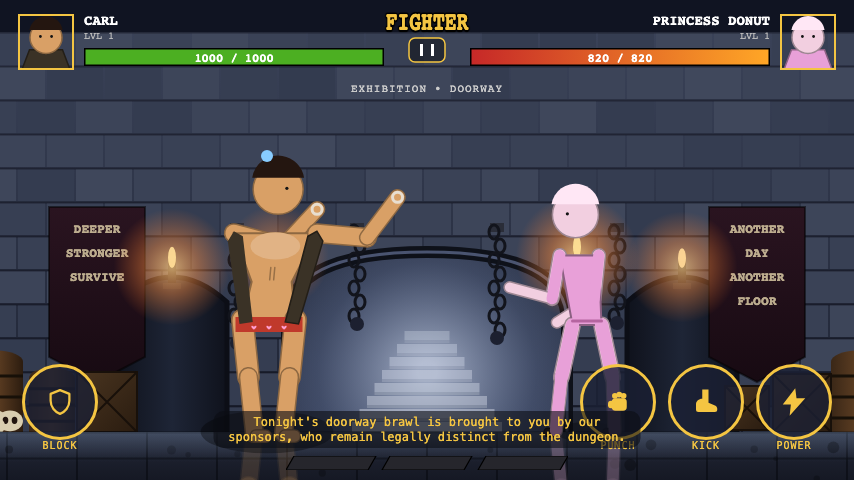
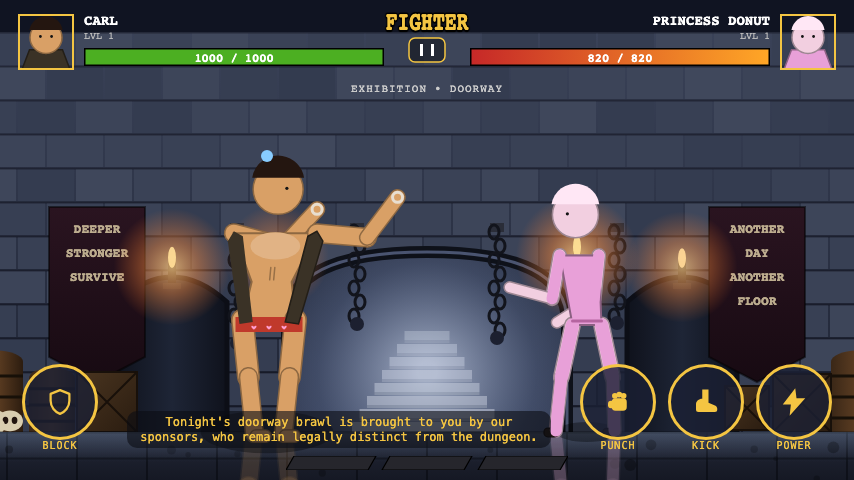
fix: toast sits between BLOCK and PUNCH
Round 2 re-review: the toast, centered at 62% of the canvas width,
still ran its right edge over the PUNCH button's label in every
non-cinematic shot, making it unreadable.

G.positionToast now centers the toast in the horizontal gap between
the BLOCK button's right edge and the PUNCH button's left edge instead
of the canvas center, capped at 88% of that gap's width. The two edges
(BLOCK_RIGHT, PUNCH_LEFT) are computed from the same canvas-local
numbers 00_head.html's CSS positions the buttons with (#btnBlock
left:22/width:76, #btnPunch right:198/width:76), not their DOM rects —
#btns (and everything under it) collapses to a zero
getBoundingClientRect() while hidden pre-fight (TITLE/RESULT), and
positionToast runs then too (from G.fit at init/resize). Bottom
placement (8px above the power chevrons) and the 13px->12px two-line
cap (G.fitToastText) are unchanged from round 2.

New test 'toast never overlaps the BLOCK/PUNCH button labels': drives
a guaranteed-to-wrap 120-char line through the real Audio.say path,
then checks the toast's actual laid-out rect (in canvas-local units,
via the same canvas.getBoundingClientRect() scale G.positionToast
itself uses) against BLOCK/PUNCH — extended 20px down from each
button's own rect to cover its ::after data-label, which has no
directly queryable geometry.

Presentation-only — no Fight/Fighter/AI change, so the soak matrix is
unchanged from round 2. Regenerated all 10 docs/shots/p2-*.png; every
[…]

Changed region(s): [[0.1522, 0.8438, 0.7611, 0.9375]]

diff --git a/index.html b/index.html
@@ -1173,13 +1173,20 @@ const G={state:'TITLE',fight:null,encounter:null,acc:0,last:0,sim:false,debug:fa
   // top was landing squarely across the now-much-taller fighters' heads in nearly every shot.
   // TOAST_BOTTOM_GAP is canvas-local (854x480) px from the bottom of the canvas up to the toast's
   // bottom edge: the chevron power bar sits at canvas y=H-24, so H-(H-24)+8 = 32 clears it by 8px.
-  // Width is capped at 62% of the displayed canvas width (narrower than round 1's 70%, since there's
-  // less horizontal room to work with down here between the on-screen buttons).
-  TOAST_BOTTOM_GAP:32,
-  positionToast(){const r=canvas.getBoundingClientRect(),el=document.getElementById('toast');
-    el.style.left=(r.left+r.width/2)+'px';
+  // Fix round 3: round 2's 62%-of-canvas width still ran the pill's right edge over the PUNCH
+  // button's label. BLOCK_RIGHT/PUNCH_LEFT are canvas-local x's for the BLOCK button's right edge
+  // and the PUNCH button's left edge, computed from the same numbers 00_head.html's CSS positions
+  // them with (#btnBlock left:22/width:76, #btnPunch right:198/width:76) rather than read off their
+  // DOM rects — #btns (and everything under it) collapses to a zero getBoundingClientRect() while
+  // hidden pre-fight (TITLE/RESULT), and positionToast runs then too (from G.fit at init/resize).
+  // The toast is centered in that gap, capped at 88% of its width, so it can never reach either
+  // button's label regardless of content.
+  TOAST_BOTTOM_GAP:32,BLOCK_RIGHT:22+76,PUNCH_LEFT:W-(198+76),
+  positionToast(){const r=canvas.getBoundingClientRect(),el=document.getElementById('toast'),sx=r.width/W;
+    const gapL=r.left+this.BLOCK_RIGHT*sx,gapR=r.left+this.PUNCH_LEFT*sx;
+    el.style.left=((gapL+gapR)/2)+'px';
     el.style.bottom=(innerHeight-r.bottom+this.TOAST_BOTTOM_GAP/H*r.height)+'px';
-    el.style.maxWidth=Math.round(r.width*.62)+'px'},
+    el.style.maxWidth=Math.round((gapR-gapL)*.88)+'px'},
   // Caps the toast at 2 lines by dropping from 13px to 12px if the current text would wrap to 3+ at
   // 13px (measuring via the laid-out scrollHeight against the computed line-height, so it accounts
   // for the actual maxWidth positionToast() set, not an estimate). Called after every text change
@@ -1678,5 +1685,26 @@ Test.add('FX ages once per sim tick in sim mode, deterministically (not off wall
   const a=runOnce(),b=runOnce();
   eq(a,b,'identical script/seed -> identical FX state after the same tick count');
   G.fight=null;G.state='TITLE';G.sim=false});
+Test.add('toast never overlaps the BLOCK/PUNCH button labels',()=>{
+  // Fix round 3: round 2's centered-at-62%-of-canvas-width toast still ran its right edge over the
+  // PUNCH label. Drives a worst-case (long, guaranteed-to-wrap) line through the real Audio.say ->
+  // G.fitToastText path and checks the actual laid-out DOM rects, in canvas-local units (via the
+  // same canvas.getBoundingClientRect() scale G.positionToast itself uses), against BLOCK/PUNCH.
+  G.startFight();
+  G.say('x'.repeat(120));
+  const cr=canvas.getBoundingClientRect(),sx=W/cr.width,sy=H/cr.height;
+  const toCanvas=r=>({x0:(r.left-cr.left)*sx,x1:(r.right-cr.left)*sx,y0:(r.top-cr.top)*sy,y1:(r.bottom-cr.top)*sy});
+  const intersects=(a,b)=>a.x0<b.x1&&a.x1>b.x0&&a.y0<b.y1&&a.y1>b.y0;
+  // getBoundingClientRect() only covers the button circle itself, not its ::after data-label (a
+  // generated pseudo-element, which has no standard geometry query) — the actual reported bug is the
+  // label, which sits directly below the circle (top:100%, margin-top:4px, 10px text), so extend the
+  // circle's rect down by 20 canvas-local px to cover it too.
+  const withLabel=r=>({x0:r.x0,x1:r.x1,y0:r.y0,y1:r.y1+20});
+  const t=toCanvas(document.getElementById('toast').getBoundingClientRect());
+  const block=withLabel(toCanvas(document.getElementById('btnBlock').getBoundingClientRect()));
+  const punch=withLabel(toCanvas(document.getElementById('btnPunch').getBoundingClientRect()));
+  ok(!intersects(t,block),'toast rect '+JSON.stringify(t)+' must not intersect BLOCK+label '+JSON.stringify(block));
+  ok(!intersects(t,punch),'toast rect '+JSON.stringify(t)+' must not intersect PUNCH+label '+JSON.stringify(punch));
+  G.toTitle()});
 
 </script></body></html>

diff --git a/src/80_game.js b/src/80_game.js
@@ -9,13 +9,20 @@ const G={state:'TITLE',fight:null,encounter:null,acc:0,last:0,sim:false,debug:fa
   // top was landing squarely across the now-much-taller fighters' heads in nearly every shot.
   // TOAST_BOTTOM_GAP is canvas-local (854x480) px from the bottom of the canvas up to the toast's
   // bottom edge: the chevron power bar sits at canvas y=H-24, so H-(H-24)+8 = 32 clears it by 8px.
-  // Width is capped at 62% of the displayed canvas width (narrower than round 1's 70%, since there's
-  // less horizontal room to work with down here between the on-screen buttons).
-  TOAST_BOTTOM_GAP:32,
-  positionToast(){const r=canvas.getBoundingClientRect(),el=document.getElementById('toast');
-    el.style.left=(r.left+r.width/2)+'px';
+  // Fix round 3: round 2's 62%-of-canvas width still ran the pill's right edge over the PUNCH
+  // button's label. BLOCK_RIGHT/PUNCH_LEFT are canvas-local x's for the BLOCK button's right edge
+  // and the PUNCH button's left edge, computed from the same numbers 00_head.html's CSS positions
+  // them with (#btnBlock left:22/width:76, #btnPunch right:198/width:76) rather than read off their
+  // DOM rects — #btns (and everything under it) collapses to a zero getBoundingClientRect() while
+  // hidden pre-fight (TITLE/RESULT), and positionToast runs then too (from G.fit at init/resize).
+  // The toast is centered in that gap, capped at 88% of its width, so it can never reach either
+  // button's label regardless of content.
+  TOAST_BOTTOM_GAP:32,BLOCK_RIGHT:22+76,PUNCH_LEFT:W-(198+76),
+  positionToast(){const r=canvas.getBoundingClientRect(),el=document.getElementById('toast'),sx=r.width/W;
+    const gapL=r.left+this.BLOCK_RIGHT*sx,gapR=r.left+this.PUNCH_LEFT*sx;
+    el.style.left=((gapL+gapR)/2)+'px';
     el.style.bottom=(innerHeight-r.bottom+this.TOAST_BOTTOM_GAP/H*r.height)+'px';
-    el.style.maxWidth=Math.round(r.width*.62)+'px'},
+    el.style.maxWidth=Math.round((gapR-gapL)*.88)+'px'},
   // Caps the toast at 2 lines by dropping from 13px to 12px if the current text would wrap to 3+ at
   // 13px (measuring via the laid-out scrollHeight against the computed line-height, so it accounts
   // for the actual maxWidth positionToast() set, not an estimate). Called after every text change

diff --git a/src/90_tests.js b/src/90_tests.js
@@ -301,3 +301,24 @@ Test.add('FX ages once per sim tick in sim mode, deterministically (not off wall
   const a=runOnce(),b=runOnce();
   eq(a,b,'identical script/seed -> identical FX state after the same tick count');
   G.fight=null;G.state='TITLE';G.sim=false});
+Test.add('toast never overlaps the BLOCK/PUNCH button labels',()=>{
+  // Fix round 3: round 2's centered-at-62%-of-canvas-width toast still ran its right edge over the
+  // PUNCH label. Drives a worst-case (long, guaranteed-to-wrap) line through the real Audio.say ->
+  // G.fitToastText path and checks the actual laid-out DOM rects, in canvas-local units (via the
+  // same canvas.getBoundingClientRect() scale G.positionToast itself uses), against BLOCK/PUNCH.
+  G.startFight();
+  G.say('x'.repeat(120));
+  const cr=canvas.getBoundingClientRect(),sx=W/cr.width,sy=H/cr.height;
+  const toCanvas=r=>({x0:(r.left-cr.left)*sx,x1:(r.right-cr.left)*sx,y0:(r.top-cr.top)*sy,y1:(r.bottom-cr.top)*sy});
+  const intersects=(a,b)=>a.x0<b.x1&&a.x1>b.x0&&a.y0<b.y1&&a.y1>b.y0;
+  // getBoundingClientRect() only covers the button circle itself, not its ::after data-label (a
+  // generated pseudo-element, which has no standard geometry query) — the actual reported bug is the
+  // label, which sits directly below the circle (top:100%, margin-top:4px, 10px text), so extend the
+  // circle's rect down by 20 canvas-local px to cover it too.
+  const withLabel=r=>({x0:r.x0,x1:r.x1,y0:r.y0,y1:r.y1+20});
+  const t=toCanvas(document.getElementById('toast').getBoundingClientRect());
+  const block=withLabel(toCanvas(document.getElementById('btnBlock').getBoundingClientRect()));
+  const punch=withLabel(toCanvas(document.getElementById('btnPunch').getBoundingClientRect()));
+  ok(!intersects(t,block),'toast rect '+JSON.stringify(t)+' must not intersect BLOCK+label '+JSON.stringify(block));
+  ok(!intersects(t,punch),'toast rect '+JSON.stringify(t)+' must not intersect PUNCH+label '+JSON.stringify(punch));
+  G.toTitle()});

diff --git a/docs/ARENA.md b/docs/ARENA.md
@@ -10,14 +10,15 @@ Rubric table lands in Phase 5 (same format as Carls-Dash docs/PARITY.md: criteri
 - 2026-09-21 20:31 — Task 2.9: Phase 2 close-out. Added `tests/harness.py --perf N` (Ctrl.random bot vs brawl AI, `G.sim=true`, `performance.now()` confined to the page-evaluate); green at `ms_per_frame` 0.056 (`ms_step` 0.003, `ms_render` 0.053), far under the 6 ms gate. `Render` now bakes HUD statics (title glyph, the 4 chevron fill-level variants, floor-line text keyed by its label) into offscreen canvases via `Render.hudCache()` instead of redrawing them every frame; portraits were already cached per-look from Task 2.2. Fixed a determinism gap: `G.tick()` now ages `FX` itself once per sim step whenever `G.sim` is true (both the normal and cinematic branches), instead of relying on `G.loop()`'s wall-clock `requestAnimationFrame` cadence, so `--sim --shot` screenshots no longer depend on real time elapsed between harness round trips. Replaced the four emoji on-screen buttons with inline monochrome SVG icons (shield, fist, boot, lightning bolt) using `currentColor`, so they inherit `.cbtn`'s gold and correctly invert on `.ready`. Unified the `--sim` and `--matrix` soak loops behind one `build_soak_js()` restart-on-KO implementation in `tests/harness.py`, catching a KO the tick it happens instead of at the next 60-tick/probe boundary; verified `--sim --seconds 60`, `--sim --probe`, `--sim --pose`, `--sim --cinematic`, and `--sim --encounter` all still work. Small cleanups: dropped the dead `HITSTOP` constant, documented why the brute AI's heavy-hold counter being blind to interruption is safe today, and removed the silent try/catch around the HUD portrait `drawImage` calls. Generated the `docs/shots/` screenshot set (see table below) and un-ignored `docs/shots/*.png`. Unit tests: 63 passing.
 - 2026-09-21 — Final-review fix wave for Phase 2, round 1 (items 1-8). (1) KO slow-mo actually plays now: `G.onEvent('ko')` no longer flips state synchronously; `G.tick()` keeps ticking through `FIGHT` while `fight.over`, counting `fight.slowmo` down every 4th tick, and only calls the new `G.showResult(winner)` once it hits 0. (2) `FX.update()`/`Camera.update()` moved into `G.tick()` unconditionally (both the cinematic and normal branches), once per call, and dropped from `G.loop()`'s `requestAnimationFrame` cadence entirely, so both now advance on the fixed sim step instead of display refresh (fixes double-speed FX/camera on >60Hz displays) and correctly freeze while `PAUSED`; `G.debugCinematic()`'s redundant `for(...20) FX.update()` loop (flagged by the Task 2.9 review) is gone, replaced by stepping until the card is actually up and past its slide-in. (3) Wall clamp widened: `EDGE_PAD=110` (40_movedata.js) replaces the old `width/2+8` inset in `Fighter.tick`'s clamp, so a pinned fighter's rig no longer renders off-canvas (`p2-goblin.png`, regenerated in the art-pass commit). (4) `Fight` now derives a `presRng` stream from the seed that the sim never reads; `Audio.announce`/`pickLine` calls in `G` were switched from `fight.rng` to `fight.presRng` so announcer line picks can no longer perturb crit rolls or any other sim outcome — this was a plan defect (the frozen interface specified the fight rng). (5) `Fighter.dx` makes `POSES.walk` reachable from `Rig.poseFor`. (6) Rig scale/framing art pass: camera anchor `.62`→`.74`, every `LOOKS.*` proportion raised, feet, a braced idle, a contact shadow, and the announcer toast restyled/repositioned off `canvas.getBoundingClientRect()`. (7) Streak lines now p1-only, `FIGHT AGAIN` replays the previous `p2`/`ai`, a shared `lookFor()` fallback guards `Rig.draw`/`Render.overlayY`/`Render.shadow` against a look-less def, `--perf` fixed for `--perf 0` and restart-on-KO. (8) Three regression tests the review asked for (look×pose render safety, parry-lockout recovery, a sim-purity source scan). `tests/harness.py`'s soak-floor check (`--sim` and `--matrix`) now also credits back `ko_ticks` (wall-clock ticks legitimately spent in the KO slow-mo grace period from fix (1), which don't advance `Fight.frame`) against the 90% floor. Unit tests: 72 passing.
 - 2026-09-21 — Final-review fix wave for Phase 2, round 2 (re-review of item 6). Three Important breakages in round 1's art pass, all from the same root cause: round 1 validated framing only via `G.debugPose` screenshots, which sit at camera zoom 1.0 and never exercise the fight's actual zoom range. (A) At real gameplay/cinematic zoom, the rescaled rig's raised-arm poses (`heavyCharge`, `s3`) put the head/hand above the HUD bars (worst on `p2-goblin.png`/`p2-card.png`). Fixed by capping gameplay zoom at 1.12 (`Fight.updateCam`, was 1.35) and the S3 cinematic punch-in at 1.28 (`G.loop`, was 1.6), moving the camera anchor `.74`→`.90` (`Camera.apply`/`toScreen`), trimming `POSES.heavyCharge`'s peak shoulder angle (172°→108° — it was swinging the arm almost straight up), and trimming `LOOKS.hobgoblin` plus its `def.scale` (1.2→1.1) — it was compounding two scale-ups (round 1's rescale *and* its own multiplier) into the tallest reach in the roster by a wide margin. New test `'tallest pose stays under the HUD at max zoom'` checks every look × `{heavyCharge,s3}` × `{t:0,0.5,1}` against `Camera.toScreen` at the cinematic zoom. Fighters still fill >55% of frame height at zoom 1.0 (anchor doesn't change zoom-1 scale, only vertical position) — see the updated exit table. (B) The announcer toast moved from just under the HUD's floor-line text to the bottom band (its bottom edge 8px above the power chevrons at canvas `y=H-24`), width capped at 62% of the canvas (was 70%), and a new `G.fitToastText()` drops it from 13px to 12px if the current line would wrap to 3+ lines — it was bisecting fighters' heads in nearly every shot at the round-1 top placement. (C) `EDGE_PAD` widened `110`→`220` (40_movedata.js): the rescaled rig's reach is ~162px for Carl and ~212px for the hobgoblin, both past the round-1 value. New test `'every look's reach fits inside EDGE_PAD'`. This changed `Fighter`'s sim-side wall clamp, so the matrix numbers below moved slightly from round 1's (not from randomness — every cell's fighters now range slightly further before clamping). All 8 `docs/shots/p2-*.png` regenerated, plus two new real-gameplay close-zoom shots (`p2-close.png`, `p2-close-hob.png`) added specifically to exercise the fixed max zoom. Unit tests: 74 passing.
+- 2026-09-21 — Final-review fix wave for Phase 2, round 3 (re-review of round 2's item B). Round 2's toast, centered at 62% of the canvas width, still ran its right edge over the PUNCH button's label in every non-cinematic shot. `G.positionToast` (`80_game.js`) now centers the toast in the horizontal gap between the BLOCK button's right edge and the PUNCH button's left edge instead of the canvas center, capped at 88% of that gap's width; the two edges are computed from the same canvas-local numbers `00_head.html`'s CSS positions the buttons with (`#btnBlock left:22/width:76`, `#btnPunch right:198/width:76`), not their DOM rects, since `#btns` collapses to a zero `getBoundingClientRect()` while hidden pre-fight (TITLE/RESULT) and `positionToast` runs then too. Bottom placement (8px above the chevrons) and the 13px→12px two-line cap (`G.fitToastText`) are unchanged from round 2. New test `'toast never overlaps the BLOCK/PUNCH button labels'` drives a guaranteed-to-wrap 120-char line through the real `Audio.say` path and checks the toast's actual laid-out rect against BLOCK/PUNCH (extended 20px down to cover their `::after` data-label, which has no directly queryable geometry) in canvas-local units. This round is presentation-only — no `Fight`/`Fighter`/`AI` change, so the soak matrix numbers are unchanged from round 2. All 10 `docs/shots/p2-*.png` regenerated; every button label fully readable in every shot. Unit tests: 75 passing.
 
 ## Phase 2 exit (2026-09-21)
 
 | Criterion | Status | Verification |
 |---|---|---|
-| Unit tests ≥ 60 pass | 74 passing, 0 failing | `python3 tests/harness.py --unit` |
+| Unit tests ≥ 60 pass | 75 passing, 0 failing | `python3 tests/harness.py --unit` |
 | Soak matrix clean (36 cells) | 36/36 cells, 0 errors, every `frames_total`+`ko_ticks` well over the 90% floor | `python3 tests/harness.py --matrix` |
-| Perf < 6 ms/frame | `ms_per_frame` 0.071 (`ms_step` 0.006, `ms_render` 0.066) | `python3 tests/harness.py --perf 300` |
+| Perf < 6 ms/frame | `ms_per_frame` 0.075 (`ms_step` 0.007, `ms_render` 0.068) | `python3 tests/harness.py --perf 300` |
 | Fighters stay under the HUD at max zoom | `'tallest pose stays under the HUD at max zoom'` unit test (every look × heavyCharge/s3 × t) | `python3 tests/harness.py --unit` |
 | Screenshot set present | 10 shots in `docs/shots/`: `p2-idle.png` (Carl, braced idle stance), `p2-light3.png` (Carl, light-3 jab extended), `p2-heavy.png` (Carl, heavy overhead wind-up), `p2-block.png` (Carl, guard raised, parry-window indicator lit), `p2-hit.png` (Carl, hitstun recoil), `p2-s3.png` (Carl, S3 flurry mid-swing), `p2-goblin.png` (Carl vs. Goblin Scavenger, `FLOOR 1 • THE DEPTHS`, both HP bars damaged from a real 6 s fight), `p2-card.png` (S3 cinematic name card at the 1.28 punch-in, "CARL / SPECIAL 3"), `p2-close.png` (Carl vs. Goblin Scavenger at close range/near-max gameplay zoom), `p2-close-hob.png` (Carl vs. Hobgoblin Brute at close range — the tallest look, in the worst-case zoom scenario) | `python3 tests/harness.py --sim --seconds 1 --pose <key> --shot docs/shots/p2-<key>.png`; `--sim --seconds 4 --encounter f1_goblin --shot docs/shots/p2-close.png`; `--sim --seconds 4 --encounter f1_hob --shot docs/shots/p2-close-hob.png`; `--sim --seconds 6 --encounter f1_goblin --shot docs/shots/p2-goblin.png`; `--cinematic --shot docs/shots/p2-card.png` |
 
